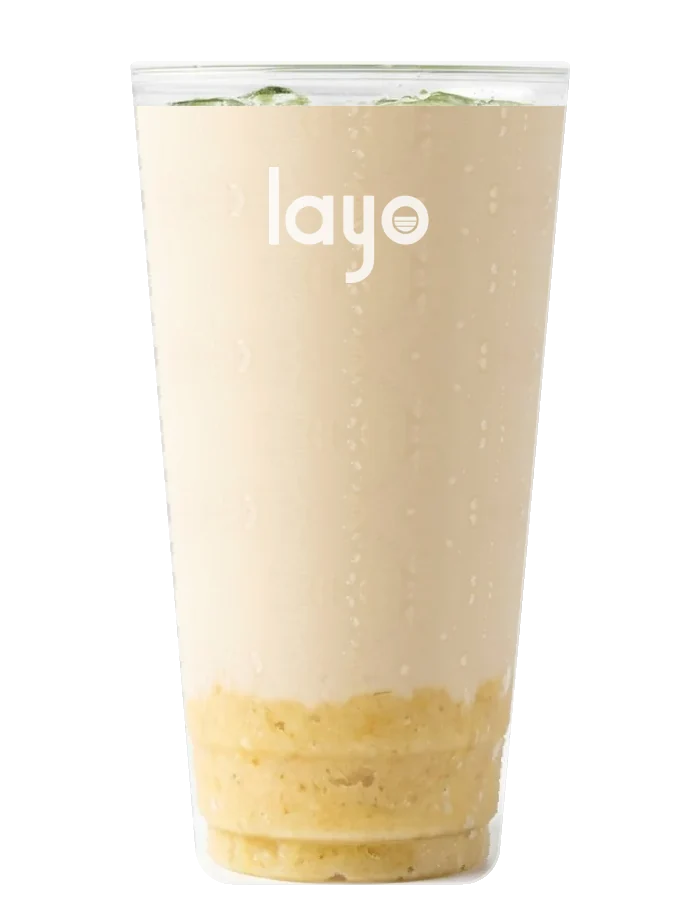
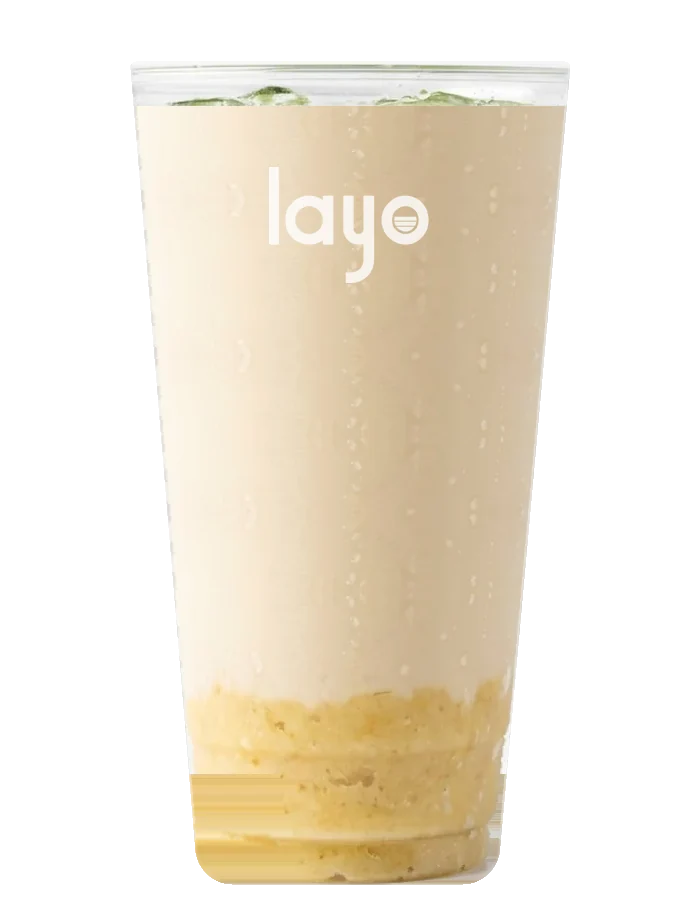
Layo: clean cup bases (no backdrop at the bottom), like blueberry
Claude-Session: https://claude.ai/code/session_01UTJuAjWUwzzxbHTx65gk4g

Changed region(s): [[0.27, 0.84, 0.42, 0.9956], [0.69, 0.8711, 0.72, 0.9644], [0.6, 0.9644, 0.69, 0.9956]]

diff --git a/tools/build_live.py b/tools/build_live.py
@@ -102,6 +102,20 @@ def to_ref(F, k):
     if k=='blueberry': return F, BANDS[k]
     Fw=walls(F); rr=[y for y in range(900) if Fw[y] is not None]; t,b=rr[0],rr[-1]
     G=rowmap(F,Fw,(t,b+1),F.shape,RW,(RT,RB+1)); G[:,:,3]=np.where(G[:,:,3]>0,REF[:,:,3],0)
+    # the photo's own base is narrower than the reference cup: fill white backdrop at the bottom with the drink next to it
+    for y in range(RB-110, RB+1):
+        row=G[y]; c=np.where(row[:,3]>0)[0]
+        if len(c)<10: continue
+        px=row[:,:3].astype(int); lum=px.mean(1); med=np.median(lum[c[0]+(c[-1]-c[0])//4:c[-1]-(c[-1]-c[0])//4]); pale=lum>med+28
+        mid=(c[0]+c[-1])//2
+        for x in range(mid, c[-1]+1):
+            if pale[x]: G[y,x,:3]=G[y,x-1,:3]
+        for x in range(mid, c[0]-1, -1):
+            if pale[x]: G[y,x,:3]=G[y,x+1,:3]
+    ref=G[RB-40,:,:3][G[RB-40,:,3]>0].astype(int).mean()
+    for y in range(RB-25, RB+1):
+        m_=G[y,:,3]>0
+        if m_.sum() and G[y,m_,:3].astype(int).mean()>ref+18: G[y,:,:3]=G[y-1,:,:3]
     f=lambda y:int(RT+(y-t)*(RB-RT)/(b-t)); return G, tuple(f(v) for v in BANDS[k])
 for k,p in SRC.items():
     F,BK=to_ref(clean(np.asarray(Image.open(p).convert('RGBA'))),k); Fw=walls(F)
@@ -147,7 +161,7 @@ for k,p in SRC.items():
     edge=np.asarray(Image.fromarray(alpha).filter(ImageFilter.MaxFilter(3))).astype(int)-np.asarray(Image.fromarray(alpha).filter(ImageFilter.MinFilter(5))).astype(int)
     edge=np.clip(edge,0,255)/255.
     for n in imgs:
-        a=np.asarray(imgs[n]).astype(float); w=edge[:,:,None]*.38
+        a=np.asarray(imgs[n]).astype(float); w=edge[:,:,None]*.38; w[RB-60:]*=.25
         a[:,:,:3]=a[:,:,:3]*(1-w)+255*w; imgs[n]=Image.fromarray(a.astype(np.uint8))
     cy=lt+ (mb-lt)*.42; l,r=Fw[int(cy)]
     for n,im in imgs.items():
